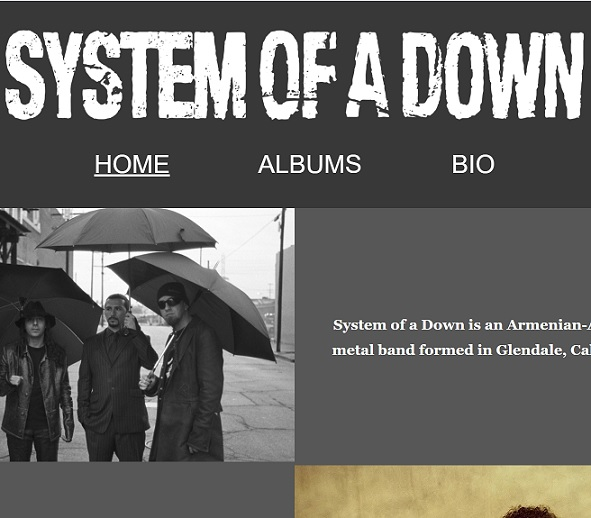
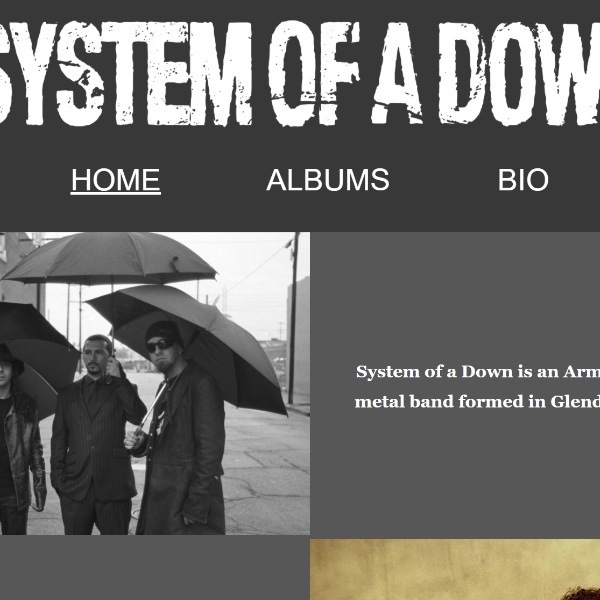
added responsive element to homepage

diff --git a/index.html b/index.html
@@ -27,7 +27,7 @@
         <div class="main-div">
 
             <!-- home page title(s) -->
-
+             
             <div class="content-div">
                 <h1>PHILIPPE CANTREL</h1>
                 <h2>full-stack web developer</h2>
@@ -35,6 +35,7 @@
 
             <!-- development skill diagram -->
 
+            <div class="viewport-wrapper">
             <div class="content-div">
                 <h3>development skills</h3>
                 <div class=img-box>
@@ -88,6 +89,7 @@
                 <div class="nav-option"><a href="hire-me.html">hire me now!</a></div>    
                 </div>
             </div>
+        </div>
             <div class="content-div">
             <h3>&#169; philippe cantrel 2020</h3>
             </div>

diff --git a/css/index-style.scss b/css/index-style.scss
@@ -160,6 +160,42 @@ nav  {
 }
 
 
-@media screen and (max-width: 600px){
+@media screen and (min-width: 600px){
+
+    header {
+        padding-left: 1.9%;
+        justify-content: flex-start;
+    }
+    nav {
+        
+        width: 350px;
+        box-shadow: none;
+    }
+    
+
+    .content-div {
+        max-width: 50%;
+        width: 100%;
+        margin-top: 10px;
+        h1 {
+            font-size: 4vw;
+            
+        }
+        h2 {
+            font-size: 2vw;
+            
+        }
+        h3 {
+            font-size: 1.5vw;
+        }
+    }
+
+    .text-div{
+        p {
+            text-align: center;
+            line-height: 1.3vw;
+            font-size: 1vw;
+        }
+    }
 
 }

diff --git a/css/index-style.css b/css/index-style.css
@@ -200,4 +200,37 @@ nav a {
   line-height: 5.3vw;
   font-size: 4.5vw;
 }
+
+@media screen and (min-width: 600px) {
+  header {
+    padding-left: 1.9%;
+    -webkit-box-pack: start;
+        -ms-flex-pack: start;
+            justify-content: flex-start;
+  }
+  nav {
+    width: 350px;
+    -webkit-box-shadow: none;
+            box-shadow: none;
+  }
+  .content-div {
+    max-width: 50%;
+    width: 100%;
+    margin-top: 10px;
+  }
+  .content-div h1 {
+    font-size: 4vw;
+  }
+  .content-div h2 {
+    font-size: 2vw;
+  }
+  .content-div h3 {
+    font-size: 1.5vw;
+  }
+  .text-div p {
+    text-align: center;
+    line-height: 1.3vw;
+    font-size: 1vw;
+  }
+}
 /*# sourceMappingURL=index-style.css.map */
